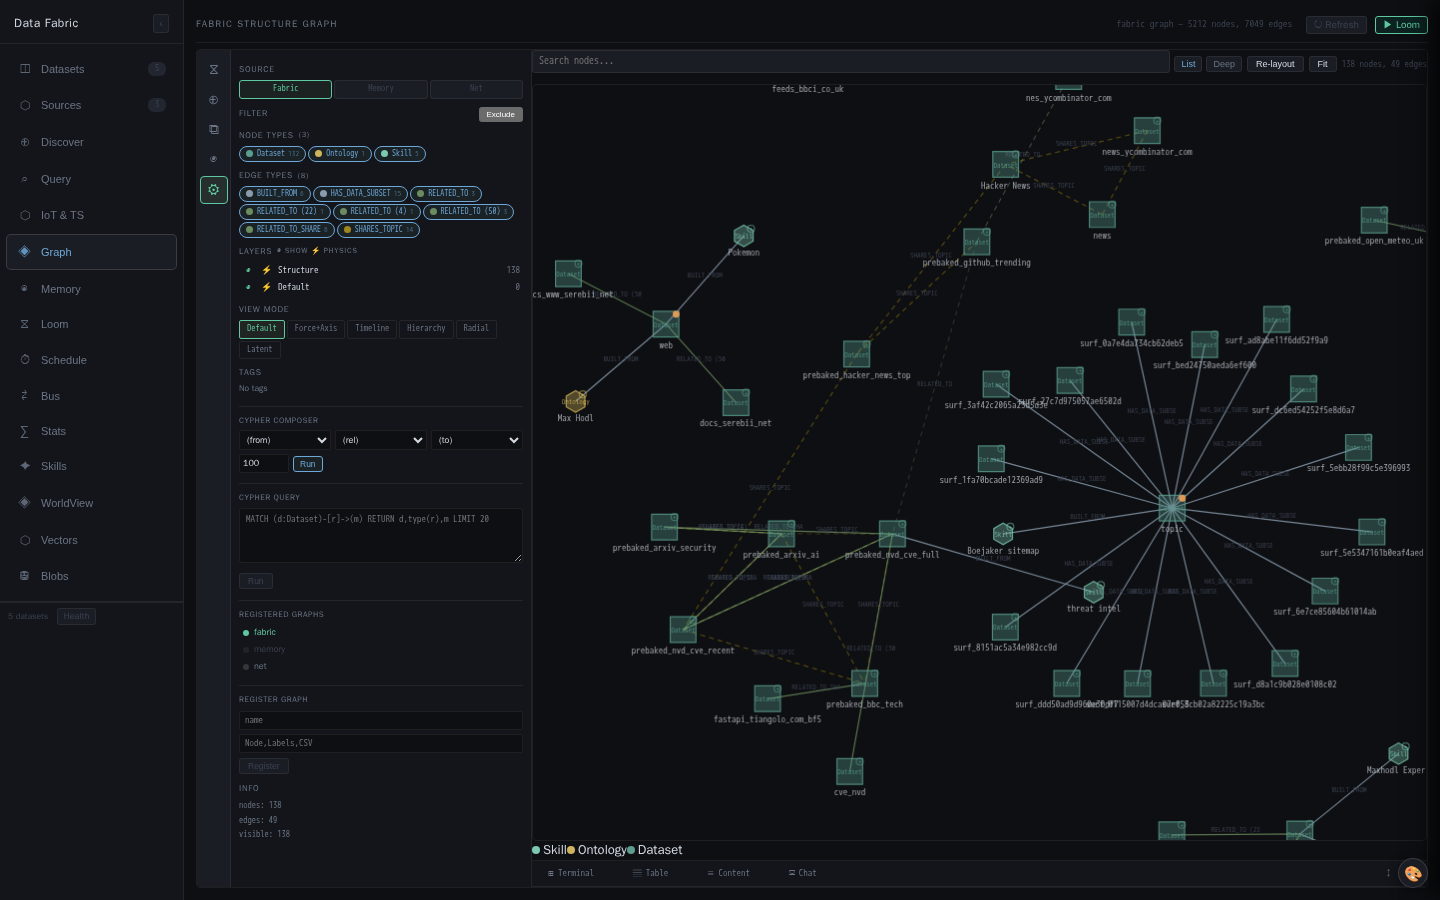
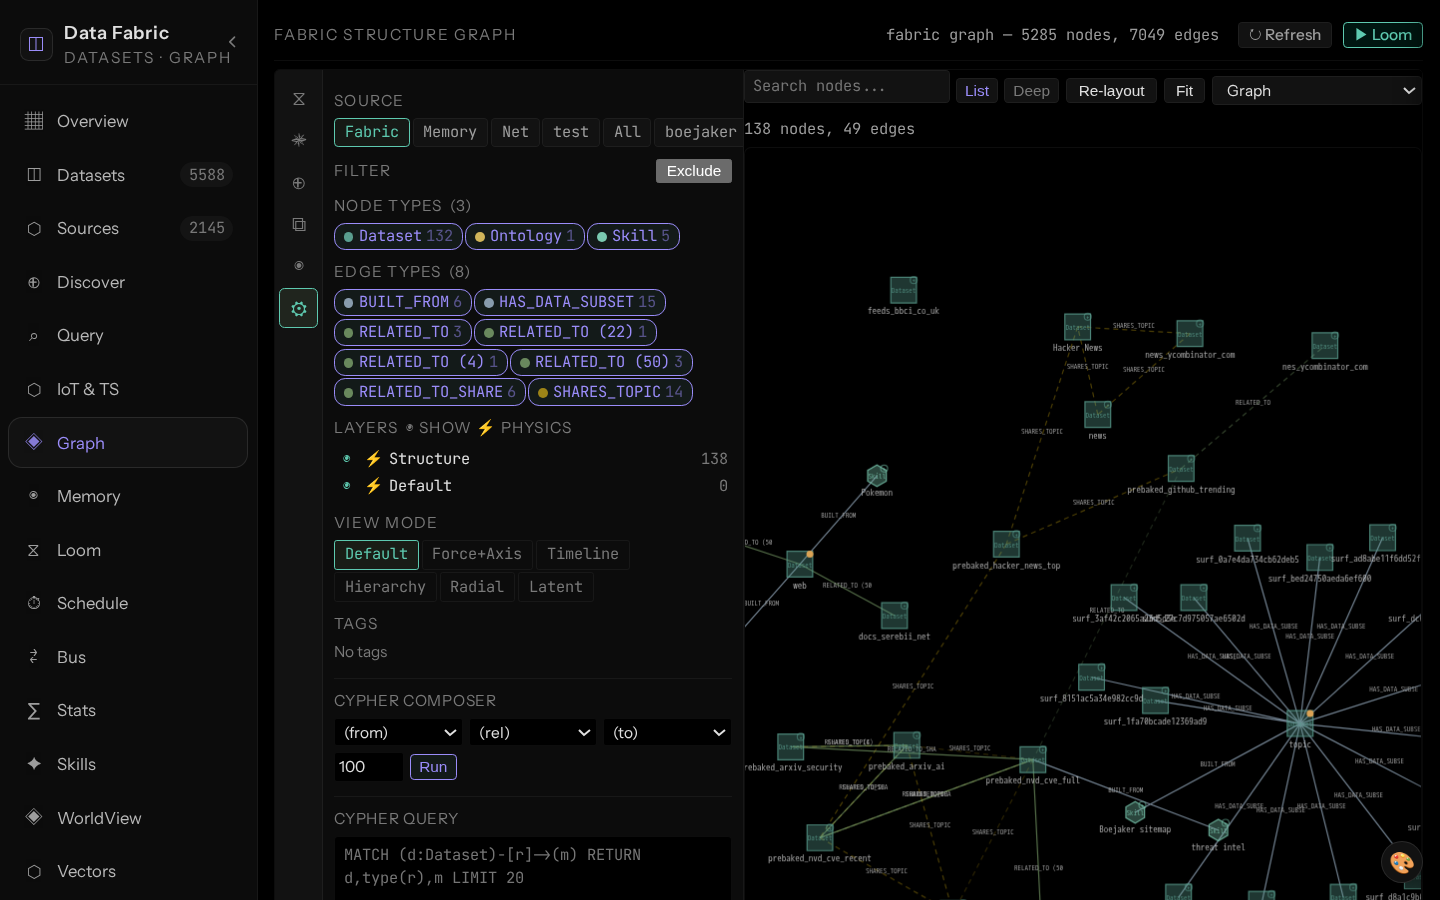
docs capture: a faint canvas grid is not a drawn graph; refresh fabric graph + ML lab
ready_painted counted any pixel unlike the first as drawing, and the memory
graph's faint background grid passed it over an empty canvas. It now needs
marks well clear of the dominant background luminance.

Re-shot from prod with the stricter readiness: the fabric structure graph
(5285 nodes, previously captured empty) and ML Lab with its modules listed.

diff --git a/vera/operator/missions/documentation.py b/vera/operator/missions/documentation.py
@@ -450,20 +450,26 @@ _READY_COUNT_JS = """sel => { const e = document.querySelector(sel);
   return !!m && Number((m[1] || m[0]).replace(/,/g, '')) > 0; }"""
 
 
-# A canvas that holds only its background colour has drawn nothing: the memory
-# graph's status line read "906 nodes" over a blank canvas, and every
-# text/count condition passed. Sampled, so a large canvas stays cheap. A canvas
-# without a readable 2D context (WebGL, tainted) cannot be judged and passes.
+# A canvas that holds only its background has drawn nothing: the memory graph's
+# status line read "906 nodes" over a blank canvas, and every text/count
+# condition passed. "Background" includes a faint grid, which differs from the
+# fill by a few levels and fooled a plain any-other-colour test; drawn marks
+# stand well clear of the dominant luminance. Sampled, so a large canvas stays
+# cheap. A canvas without a readable 2D context (WebGL, tainted) cannot be
+# judged and passes.
 _READY_PAINTED_JS = """sel => { const c = document.querySelector(sel);
   if (!c || !c.width || !c.height) return false;
   let g = null; try { g = c.getContext('2d'); } catch (e) { return true; }
   if (!g) return true;
   let d; try { d = g.getImageData(0, 0, c.width, c.height).data; } catch (e) { return true; }
-  const first = d[0] + ',' + d[1] + ',' + d[2]; let other = 0;
+  const lum = [], hist = new Map();
   for (let i = 0; i < d.length; i += 4 * 61) {
-    if (d[i] + ',' + d[i + 1] + ',' + d[i + 2] !== first && ++other > 20) return true;
+    const l = Math.round((d[i] * 299 + d[i + 1] * 587 + d[i + 2] * 114) / 1000);
+    lum.push(l); hist.set(l, (hist.get(l) || 0) + 1);
   }
-  return false; }"""
+  let bg = 0, best = -1;
+  for (const [l, n] of hist) if (n > best) { best = n; bg = l; }
+  return lum.filter(l => Math.abs(l - bg) > 40).length > 20; }"""
 
 
 async def _wait_ready(page, settle_ms: int,

diff --git a/tests/test_operator_documentation_ready_js.py b/tests/test_operator_documentation_ready_js.py
@@ -101,6 +101,13 @@ def test_a_canvas_filled_only_with_its_background_is_not_painted():
     assert _run(_canvas(""), _READY_PAINTED_JS, "#cv") is False
 
 
+def test_a_faint_background_grid_is_not_painted():
+    draw = ("g.strokeStyle = '#0d0d0d';"
+            "for (let x = 0; x < 600; x += 12) { g.beginPath(); g.moveTo(x, 0); g.lineTo(x, 400); g.stroke(); }"
+            "for (let y = 0; y < 400; y += 12) { g.beginPath(); g.moveTo(0, y); g.lineTo(600, y); g.stroke(); }")
+    assert _run(_canvas(draw), _READY_PAINTED_JS, "#cv") is False
+
+
 def test_a_canvas_with_a_drawn_graph_is_painted():
     draw = ("g.fillStyle = '#4fa3ff';"
             "for (let i = 0; i < 300; i++) { g.beginPath();"
